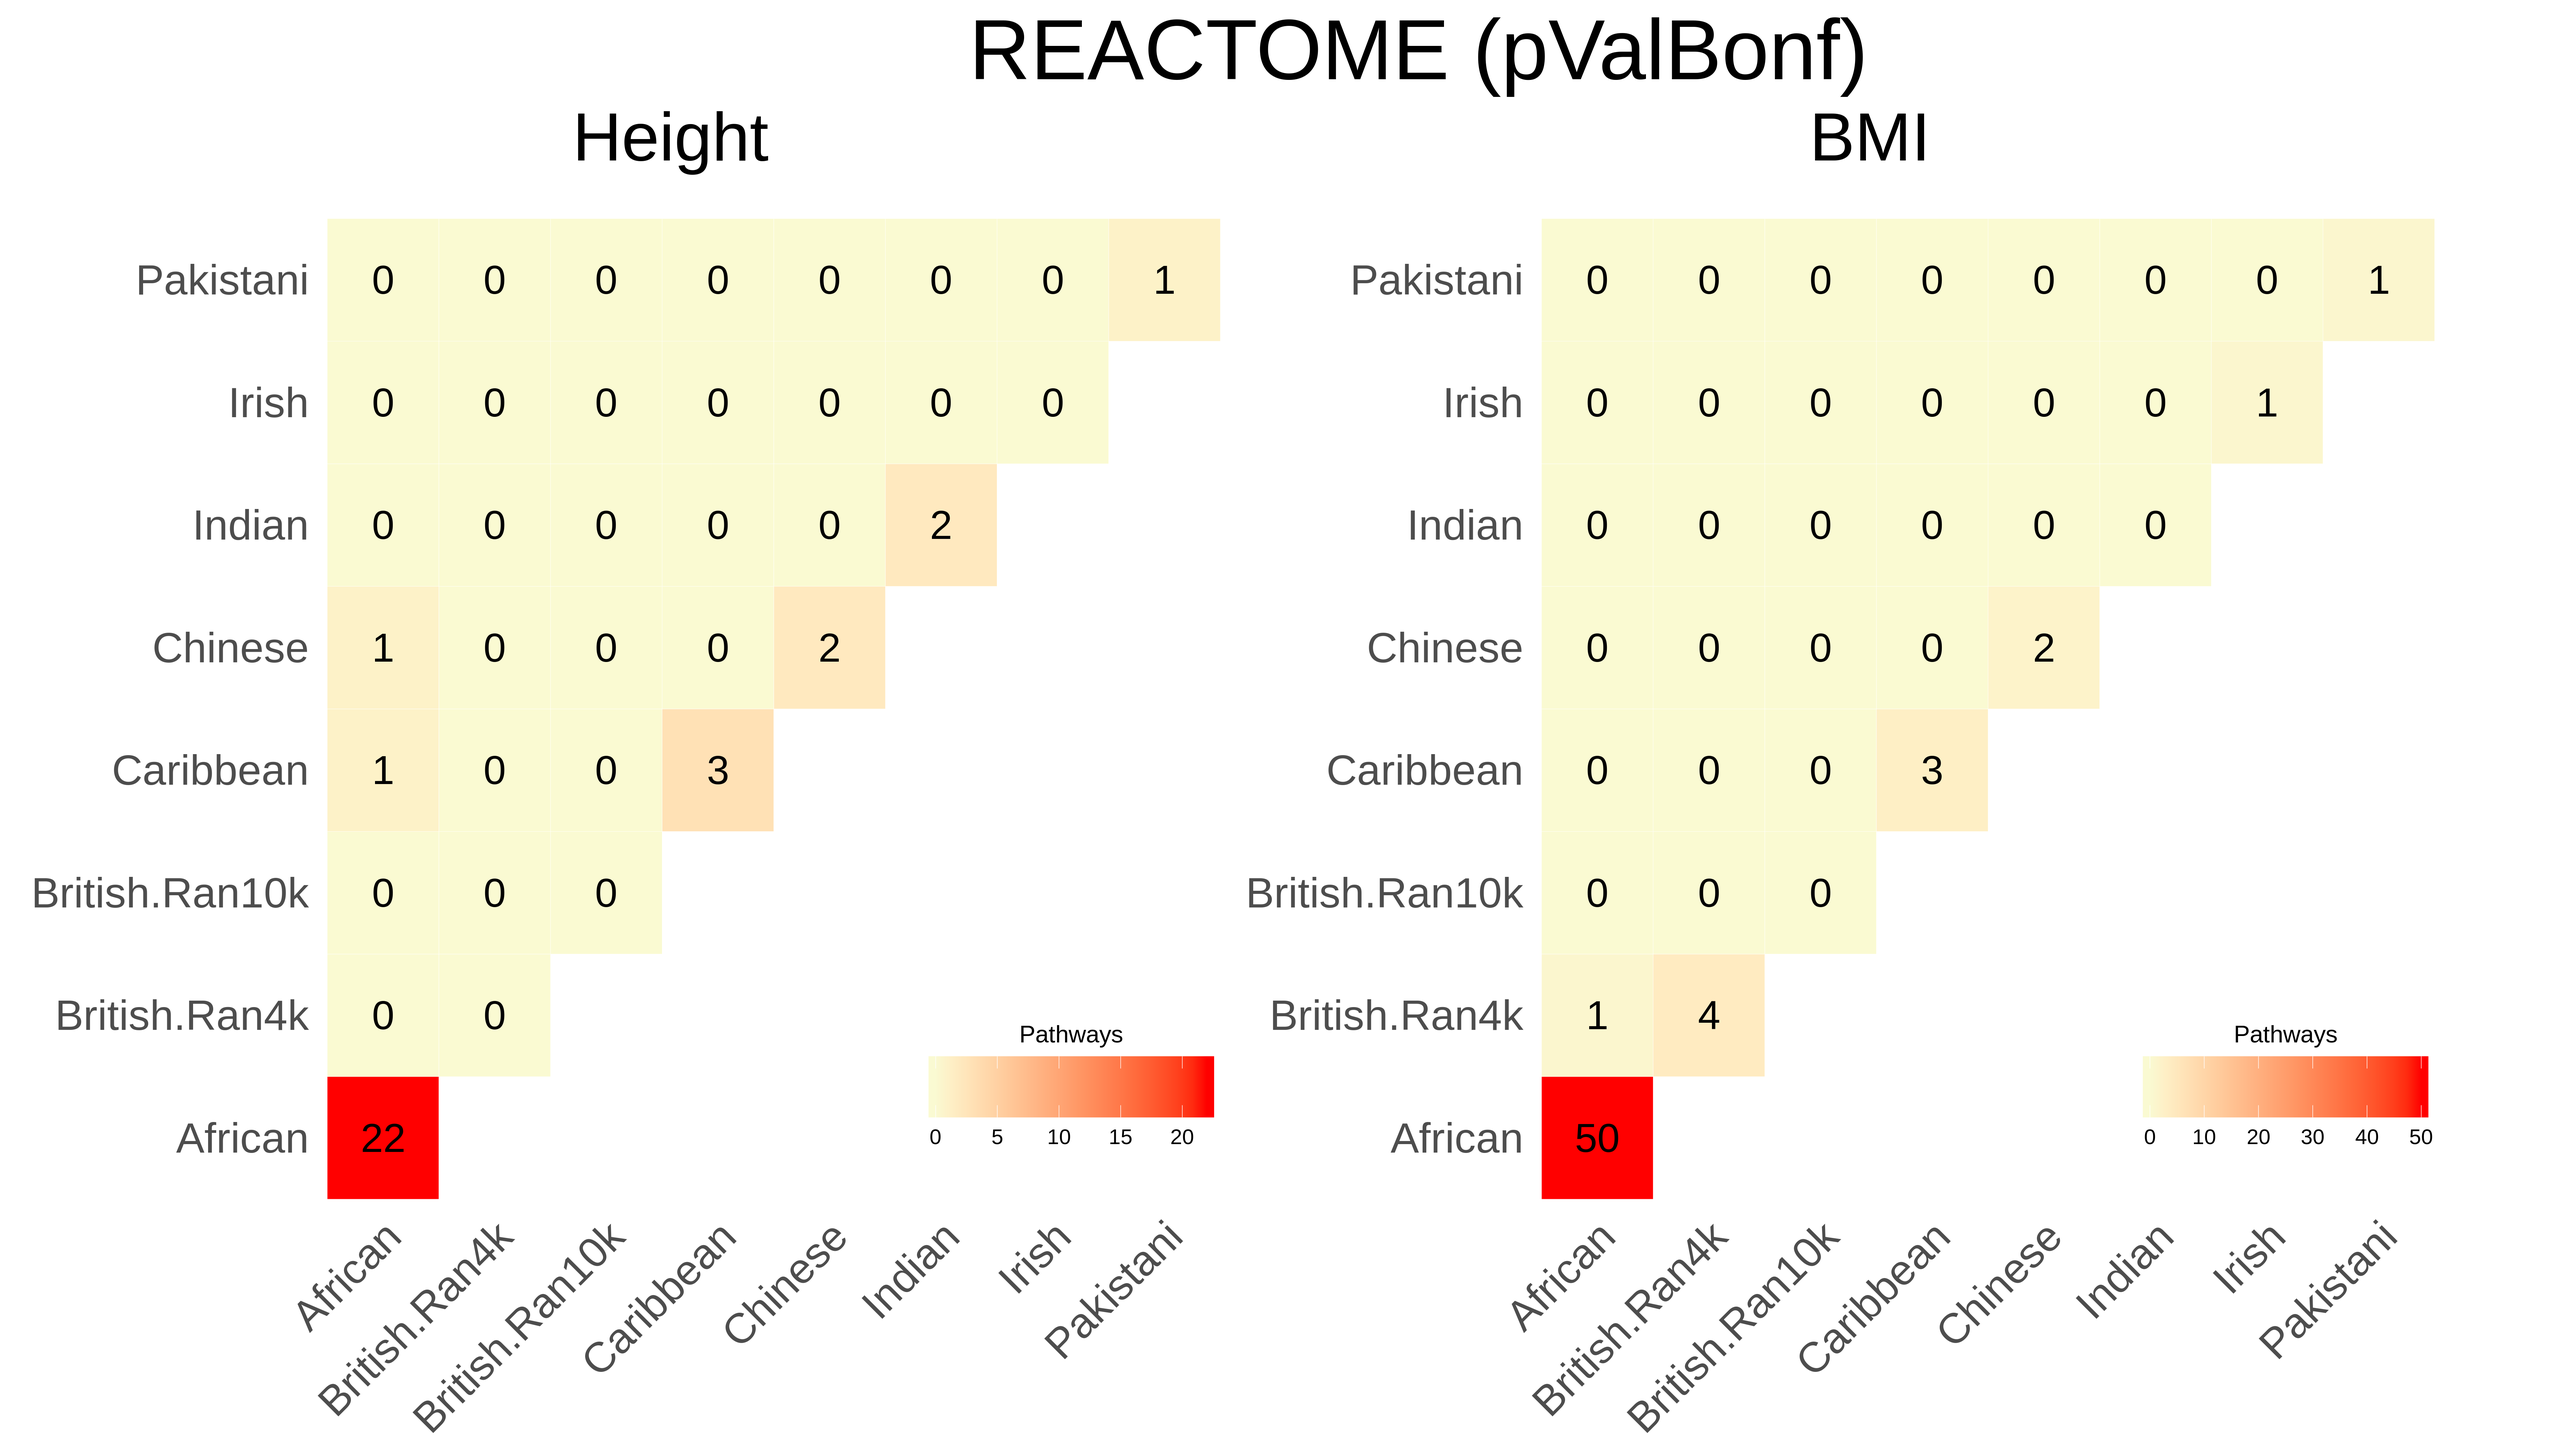
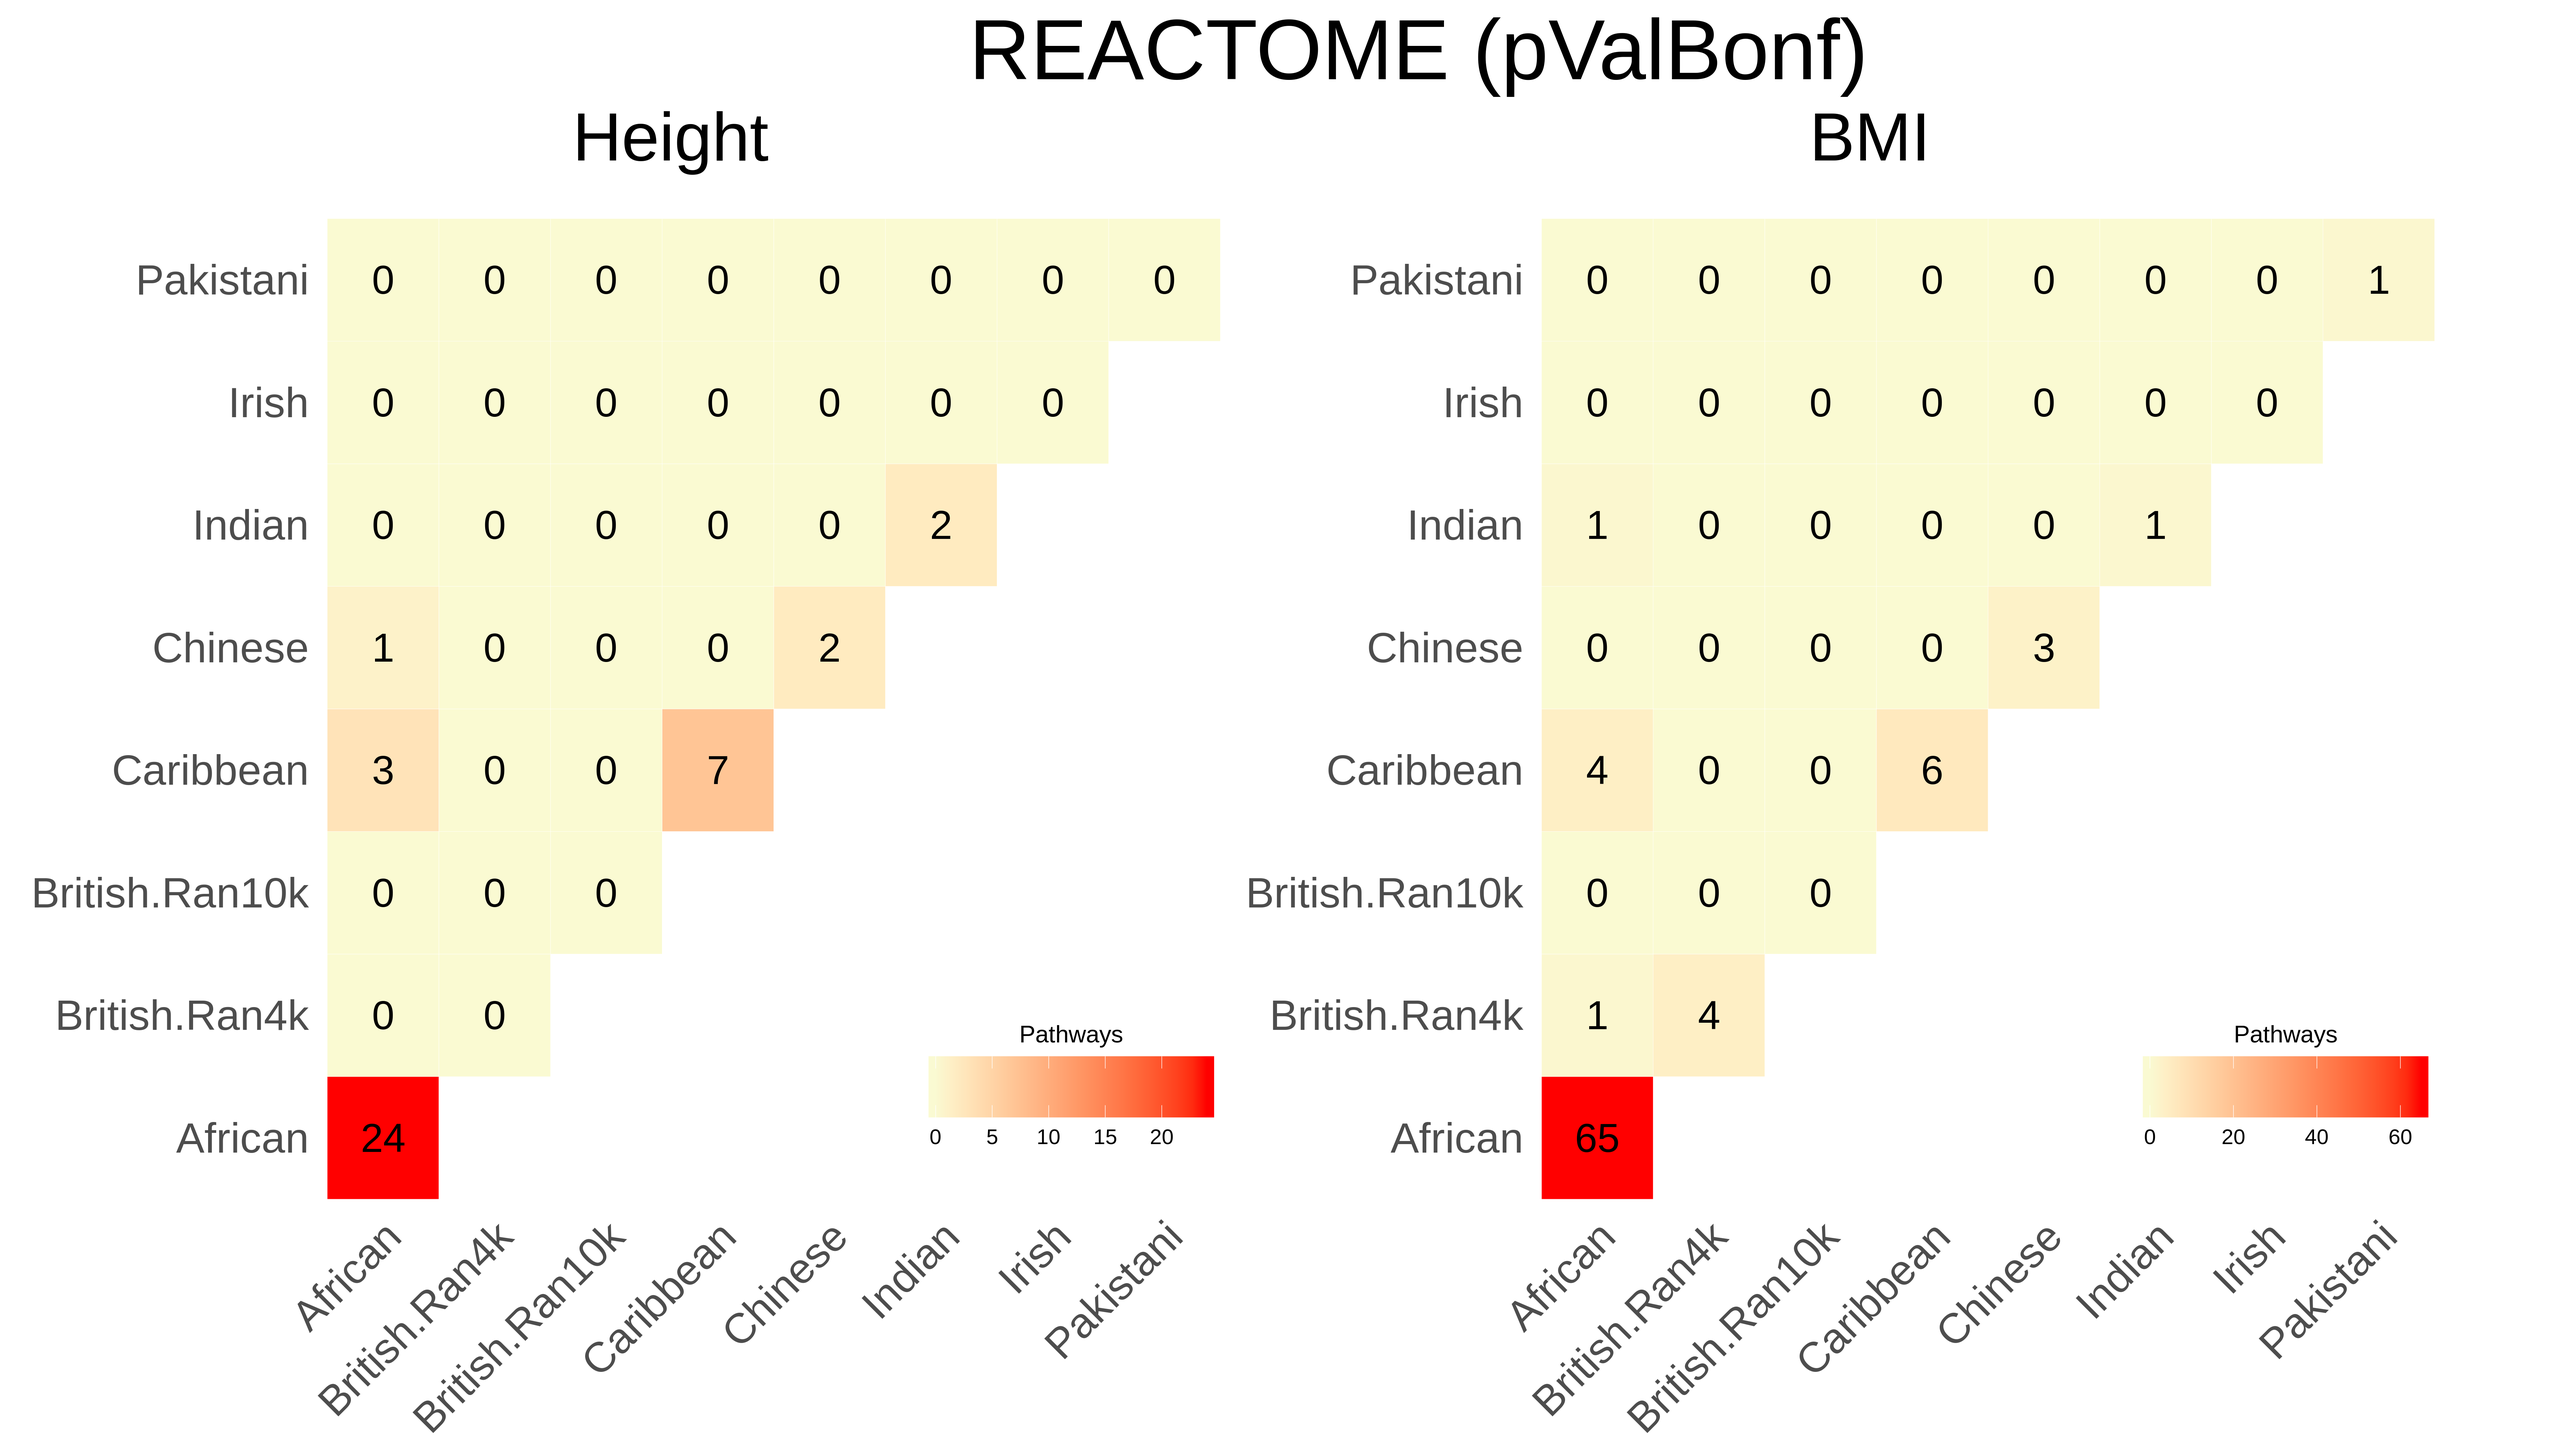
more outline and figure updates

Changed region(s): [[0.2496, 0.4659, 0.312, 0.5901], [0.4368, 0.7765, 0.468, 0.8075]]

diff --git a/Main.tex b/Main.tex
@@ -168,16 +168,16 @@ We apply our new method to multiple ancestries present in the UK Biobank \citep{
             \item should we still look into this? is my framing in a) the basic analysis setup we were thinking?
         \end{enumerate}
     \end{enumerate}
-    \item InterPath results -- multiple populations
+    \item InterPath results -- European \& non-European populations
     \begin{enumerate}
         \item See Figure \ref{InterPath-Main-Figure-Barplots}
         \item Results are shown for African, British.Ran4k, British.Ran10k, Caribbean, Chinese, Indian, Irish, and Pakistani subsets; Height and BMI; KEGG and REACTOME
         \item We find that the African population shows a large number of genome-wide significant results
         \begin{enumerate}
-            \item Brit.Ran4k, Caribbean, Chinese, Indian, and Pakistani havea few results as well
+            \item Brit.Ran4k, Caribbean, Chinese, Indian, and Pakistani have a few results as well
             \item Brit.Ran10k and Irish barely have any -- it appears large sample sizes may diminish signal somewhat, but our smallest sample sizes are in Chinese and Pakistani
         \end{enumerate}
-        \item We find that having more SNPs tends to be correlated with having a stronger signal
+        \item We find that having more SNPs tends to be correlated with having a stronger signal (and barely any relationship in the permuted data)
         \begin{enumerate}
             \item See Supplementary Figure \ref{InterPath-Suppl-Figure-pValsVsNumSNPs} \& \ref{InterPath-Suppl-Figure-pValsVsNumSNPs-perm1} (observed \& permuted data results, respectively)
         \end{enumerate}
@@ -195,12 +195,17 @@ We apply our new method to multiple ancestries present in the UK Biobank \citep{
         \end{enumerate}
         \item We show that there is not a ton of differences between the top pathways across ancestries
         \begin{enumerate}
-            \item See Figure \ref{InterPath-Main-Figure-PopCompDotPlots}
+            \item See Figures \ref{InterPath-Main-Figure-Heatplots-KEGG}, \ref{InterPath-Main-Figure-Heatplots-REACTOME} (Heatplots) \&  \ref{InterPath-Main-Figure-PopCompDotPlots} (Dotplots)
+            \item We do see some more tracking between the African and the Caribbean cohorts, which is encouraging (stands out more in REACTOME than KEGG?)
             \item Instead it looks like we may have a number of pathways being driven by genes in HLA regions and cellular signaling
             \item Maybe we are only beginning to scratch the surface of signal, and what we find are more 'globally biologically important' pathways, relevant to most pathways
             \item we propose that we need larger sample sizes to start identifying whether there is more ancestry specific epistasis occurring
         \end{enumerate}
         \item We see a similar situation when comparing Height and BMI, though there are a few pathways that diverge in the African subset (unclear how much I can draw from this -- still working on it)
+        \begin{enumerate}
+            \item See (Supplementary?) Figure \ref{InterPath-Suppl-Figure-PhenoCompDotPlots}
+            \item The barplots show this too, but it's more clear here that BMI has on average larger signals that height, which is kind of interesting -- in line with our expectations
+        \end{enumerate}
     \end{enumerate}
     \item InterPath results -- British replicates
     \begin{enumerate}
@@ -215,7 +220,7 @@ We apply our new method to multiple ancestries present in the UK Biobank \citep{
         \item this is most likely to work in the African population, given that's where most of the signal is
         \item Lorin and I have discussed some metrics trying to get at this using either the genotype matrix per pathway or the different GRMs we construct per pathway (pathway, background, and pathway*background GRMs)
     \end{enumerate}
-    \item Ambiguity on dealing with non-European populations
+    \item Ambiguity on dealing with non-European populations (?)
     \begin{enumerate}
         \item (need to develop this idea/framing a bit more)
         \item We point out that it's unclear how to deal with structure in non-European populations
@@ -300,15 +305,15 @@ Looking at the specific pathways that we observe as having significant evidence 
 
 \begin{figure}[htbp]
 \centering
-\includegraphics[scale=.225]{Images/InterPath_Main_Figure_Heatplots_vs1.png}
+\includegraphics[scale=.225]{Images/InterPath_Main_Figure_Heatplots_KEGG_vs1.png}
 \caption[TBD]{\textbf{TBD}. \\ Placeholder.}
-\label{InterPath-Main-Figure-Heatplots}
+\label{InterPath-Main-Figure-Heatplots-KEGG}
 \end{figure}
 \begin{figure}[htbp]
 \centering
 \includegraphics[scale=.225]{Images/InterPath_Main_Figure_Heatplots_REACTOME_vs1.png}
 \caption[TBD]{\textbf{TBD}. \\ Placeholder.}
-\label{InterPath-Main-Figure-Heatplots2}
+\label{InterPath-Main-Figure-Heatplots-REACTOME}
 \end{figure}
 
 \begin{figure}[htbp]
@@ -484,7 +489,7 @@ GEMMA/GridLMM:
 
 \begin{figure}[htbp]
 \centering
-\includegraphics[scale=.225]{Images/InterPath_Suppl_pValHists_vs1.png}
+\includegraphics[scale=.15]{Images/InterPath_Suppl_pValHists_vs1.png}
 \caption[TBD]{\textbf{TBD}. \\ Placeholder.}
 \label{InterPath-Suppl-Figure-pValHists}
 \end{figure}
@@ -505,7 +510,7 @@ GEMMA/GridLMM:
 
 \begin{figure}[htbp]
 \centering
-\includegraphics[scale=.225]{Images/InterPath_Suppl_PhenoCompDotPlots_vs1.png}
+\includegraphics[scale=.15]{Images/InterPath_Suppl_PhenoCompDotPlots_vs1.png}
 \caption[TBD]{\textbf{TBD}. \\ Placeholder.}
 \label{InterPath-Suppl-Figure-PhenoCompDotPlots}
 \end{figure}
